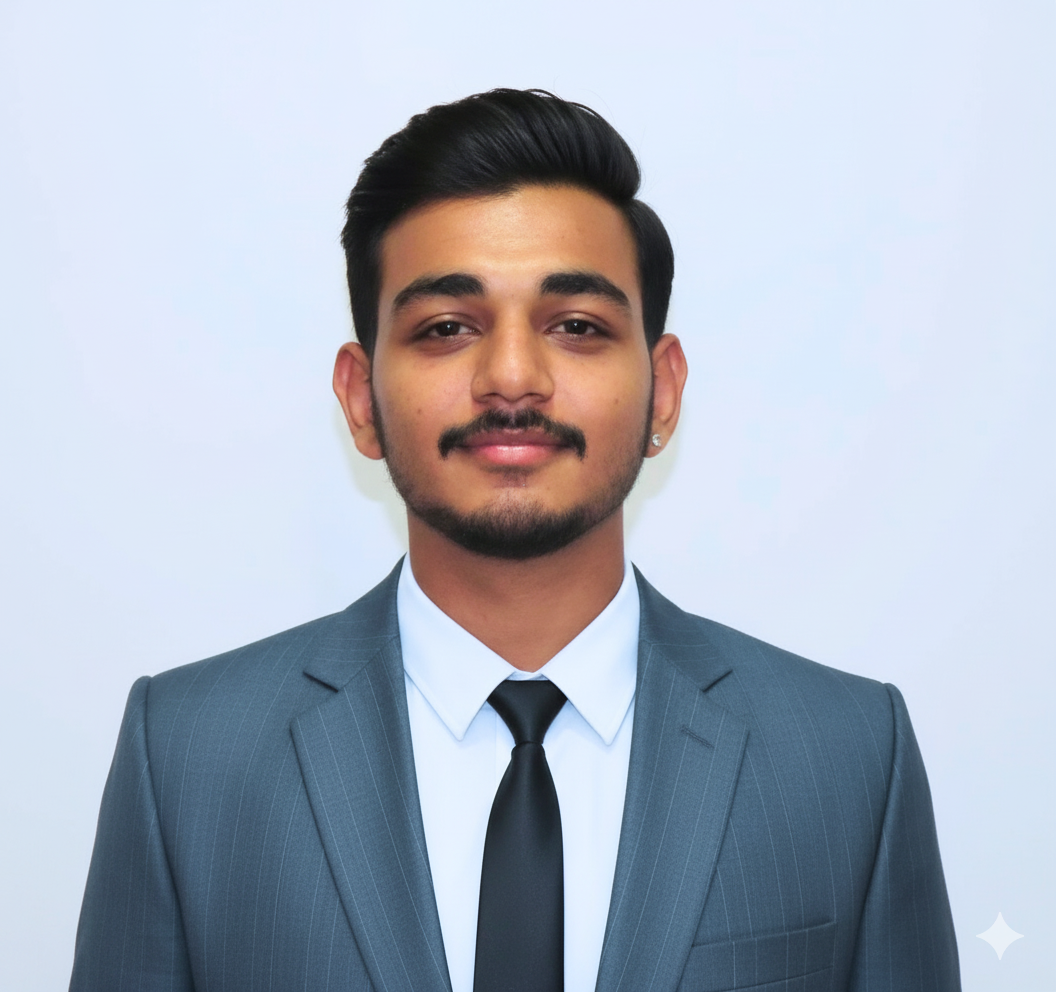
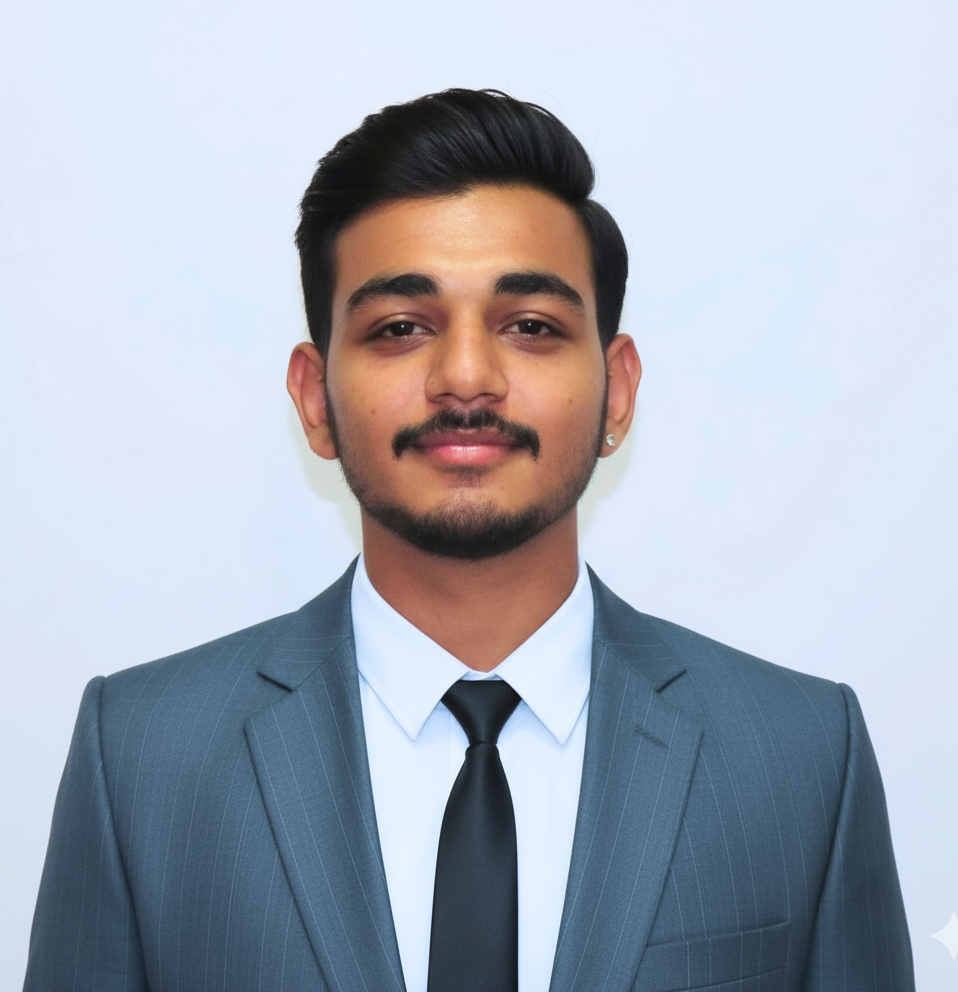
done

diff --git a/index.css b/index.css
@@ -177,8 +177,8 @@ section {
 }
 #profile1{
   border-radius: 50%;
-  width: 95%;
-  height:95%;
+  width: 92%;
+  height:92%;
 }
 
 .section__pic-container {
